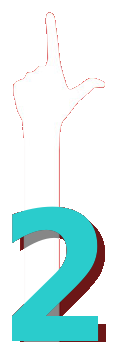
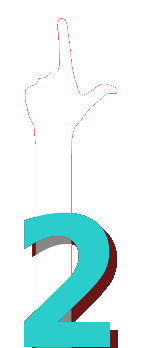
fix(ui): Counting-Fingers-Assets auf einheitliche Höhe bringen
Alle Poster auf 142×348 mit unten bündigem Inhalt (Transparenz nur oben/
seitlich) und feste Anzeigehöhe im CSS, damit Host und Vote beim
Sekundenwechsel nicht springen.

diff --git a/apps/frontend/src/app/shared/countdown-fingers/countdown-fingers.component.ts b/apps/frontend/src/app/shared/countdown-fingers/countdown-fingers.component.ts
@@ -73,7 +73,9 @@ const FINGER_IMAGES: Record<number, string> = {
 
       .countdown-fingers__img {
         display: block;
+        /* Assets sind einheitlich 142×348, Inhalt unten bündig. */
         object-fit: contain;
+        object-position: bottom center;
       }
 
       .countdown-fingers--large {
@@ -81,8 +83,9 @@ const FINGER_IMAGES: Record<number, string> = {
         background: transparent;
 
         .countdown-fingers__img {
+          /* Feste Box: gleicher Wechsel ohne Höhensprung (Asset-Seitenverhältnis 142/348). */
           width: 120px;
-          height: auto;
+          height: calc(120px * 348 / 142);
           image-rendering: auto;
         }
       }
@@ -94,7 +97,7 @@ const FINGER_IMAGES: Record<number, string> = {
         .countdown-fingers__img {
           /* Kompakt unten links; Asset unten bündig am Content. */
           width: 48px;
-          height: auto;
+          height: calc(48px * 348 / 142);
         }
       }
 
@@ -112,7 +115,9 @@ const FINGER_IMAGES: Record<number, string> = {
           height: auto;
           max-width: 100%;
           max-height: 100%;
+          aspect-ratio: 142 / 348;
           object-fit: contain;
+          object-position: bottom center;
         }
       }
 

diff --git a/apps/frontend/src/app/shared/countdown-fingers/countdown-fingers.component.spec.ts b/apps/frontend/src/app/shared/countdown-fingers/countdown-fingers.component.spec.ts
@@ -54,6 +54,8 @@ describe('CountdownFingersComponent', () => {
     expect(styles).not.toMatch(/background:\s*var\(--mat-sys-primary\)/);
     expect(styles).toMatch(/countdown-fingers--small[\s\S]*?padding:\s*0/);
     expect(styles).toMatch(/countdown-fingers--small[\s\S]*?width:\s*48px/);
+    expect(styles).toMatch(/countdown-fingers--small[\s\S]*?height:\s*calc\(48px \* 348 \/ 142\)/);
+    expect(styles).toMatch(/countdown-fingers--large[\s\S]*?height:\s*calc\(120px \* 348 \/ 142\)/);
     expect(styles).toMatch(/countdown-fingers--present[\s\S]*?width:\s*fit-content/);
   });
 });
